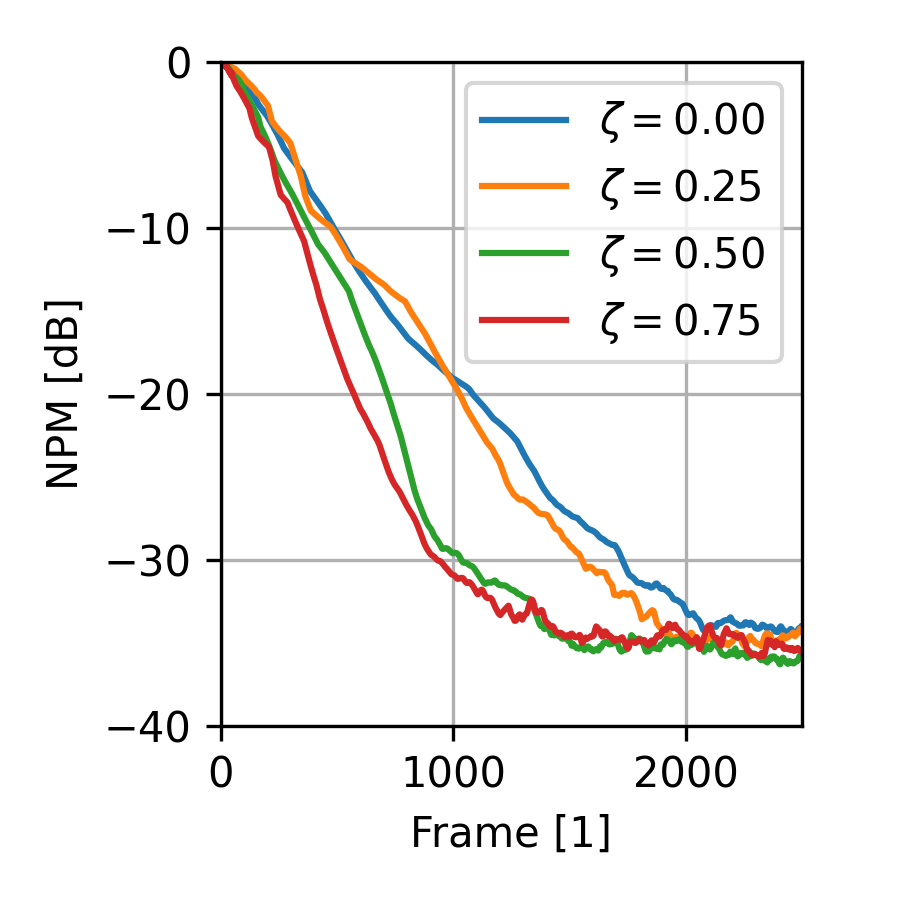
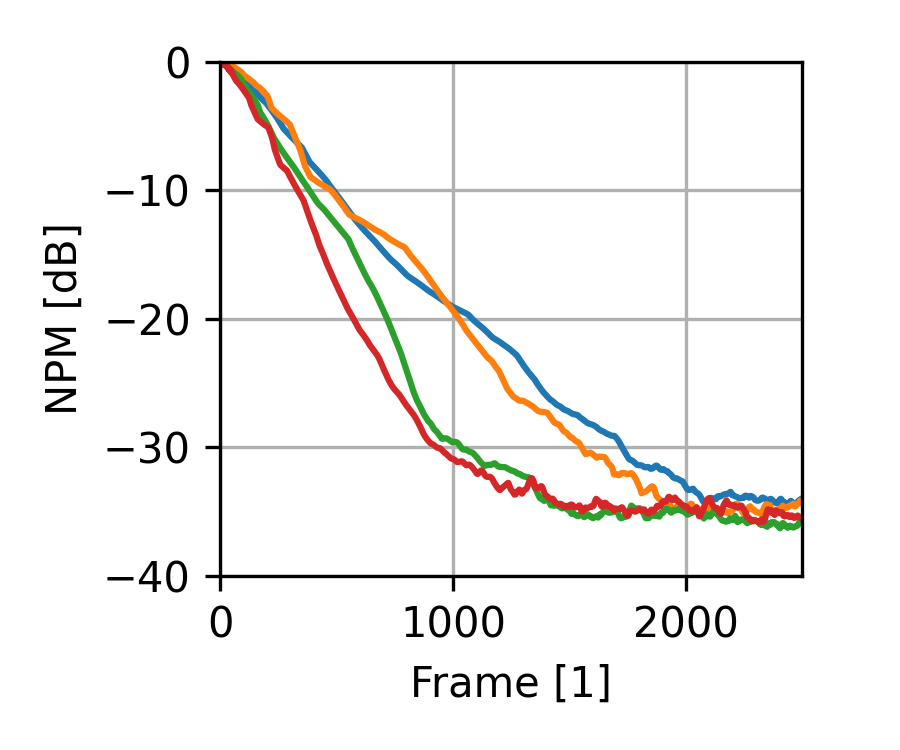
connectivity sim and plots

Changed region(s): [[0.1244, 0.0307, 0.9022, 0.9507], [0.0311, 0.276, 0.0933, 0.552]]

diff --git a/python/plot_data.py b/python/plot_data.py
@@ -320,7 +320,7 @@ plt.show()
 # %%
 lim = 2500
 for N_sens in [4, 8]:
-    fig = plt.figure(figsize=(3, 3))
+    fig = plt.figure(figsize=(3, 2.5))
     for i in range(len(densities)):
         if err_ADMM_newton_fq_diag_[i][N_sens] is not None:
             plt.plot(
@@ -336,7 +336,8 @@ for N_sens in [4, 8]:
     plt.xlim(0, lim)
     plt.ylim(-40, 0)
     plt.grid()
-    plt.legend()
+    if N_sens == 8:
+        plt.legend()
     plt.tight_layout()
     plt.show()
     utils.savefig(fig, "NPM_over_time_M%d" % (N_sens))
